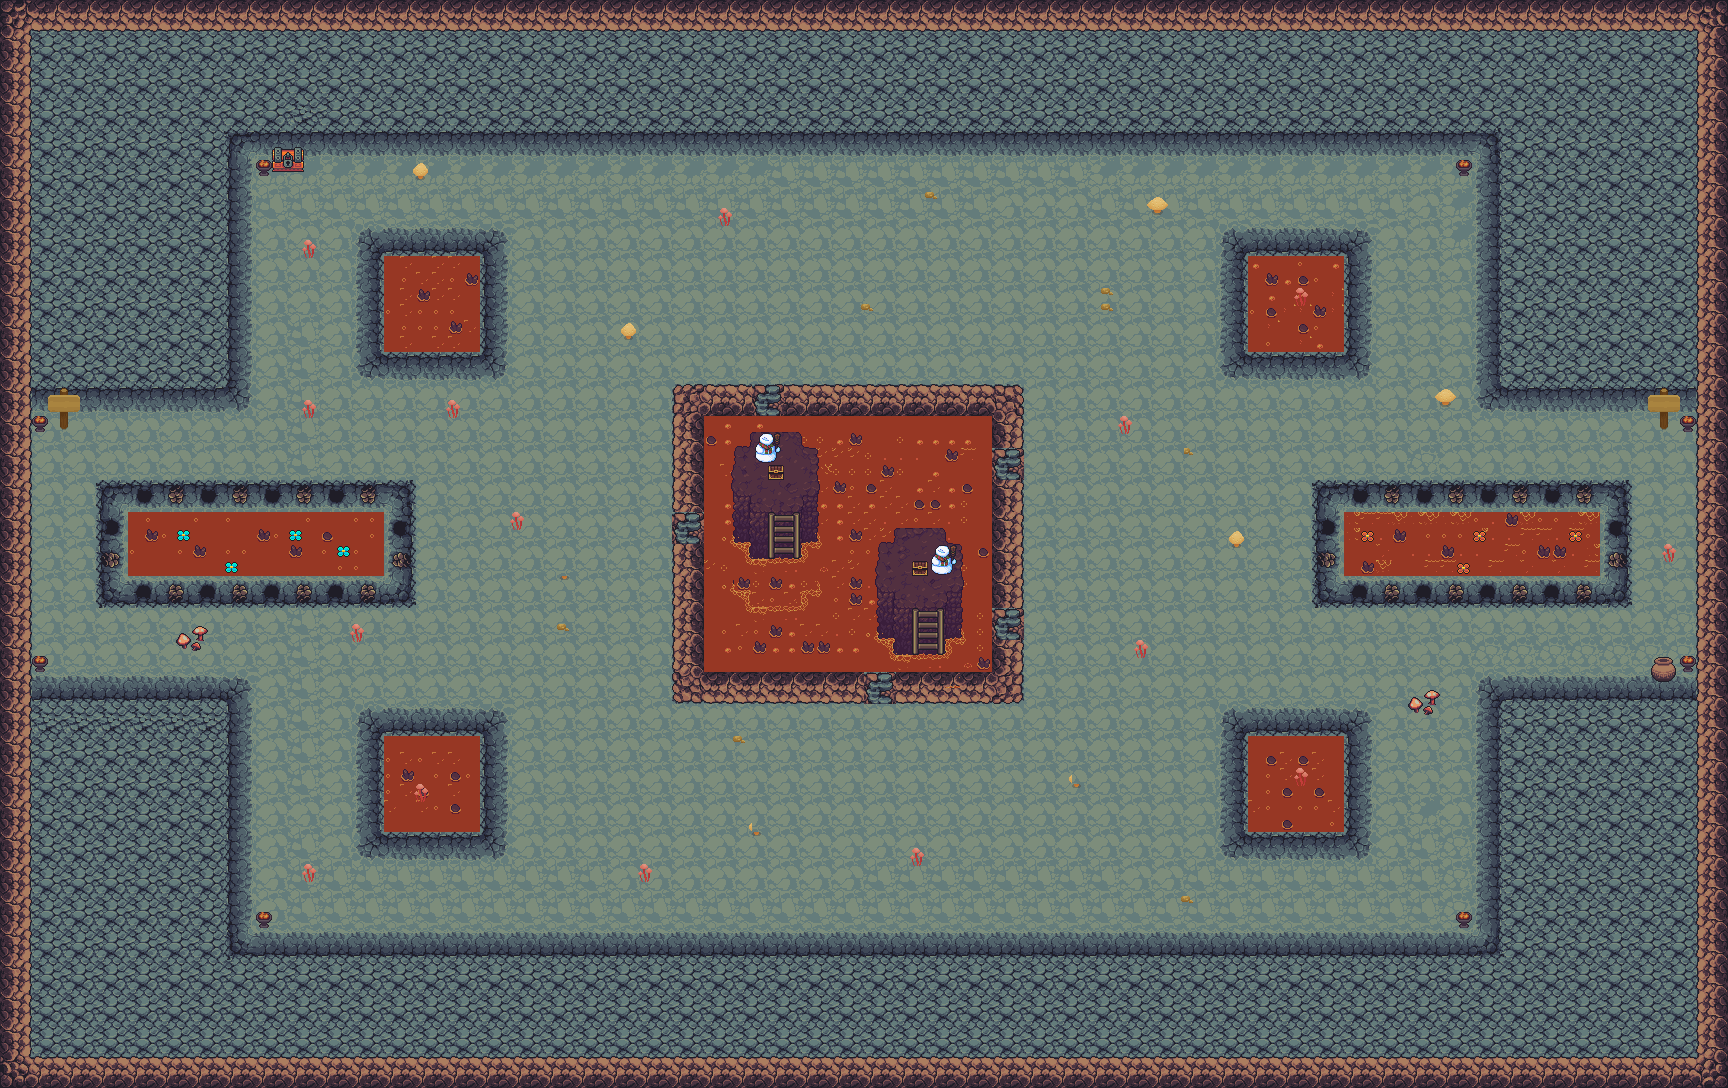
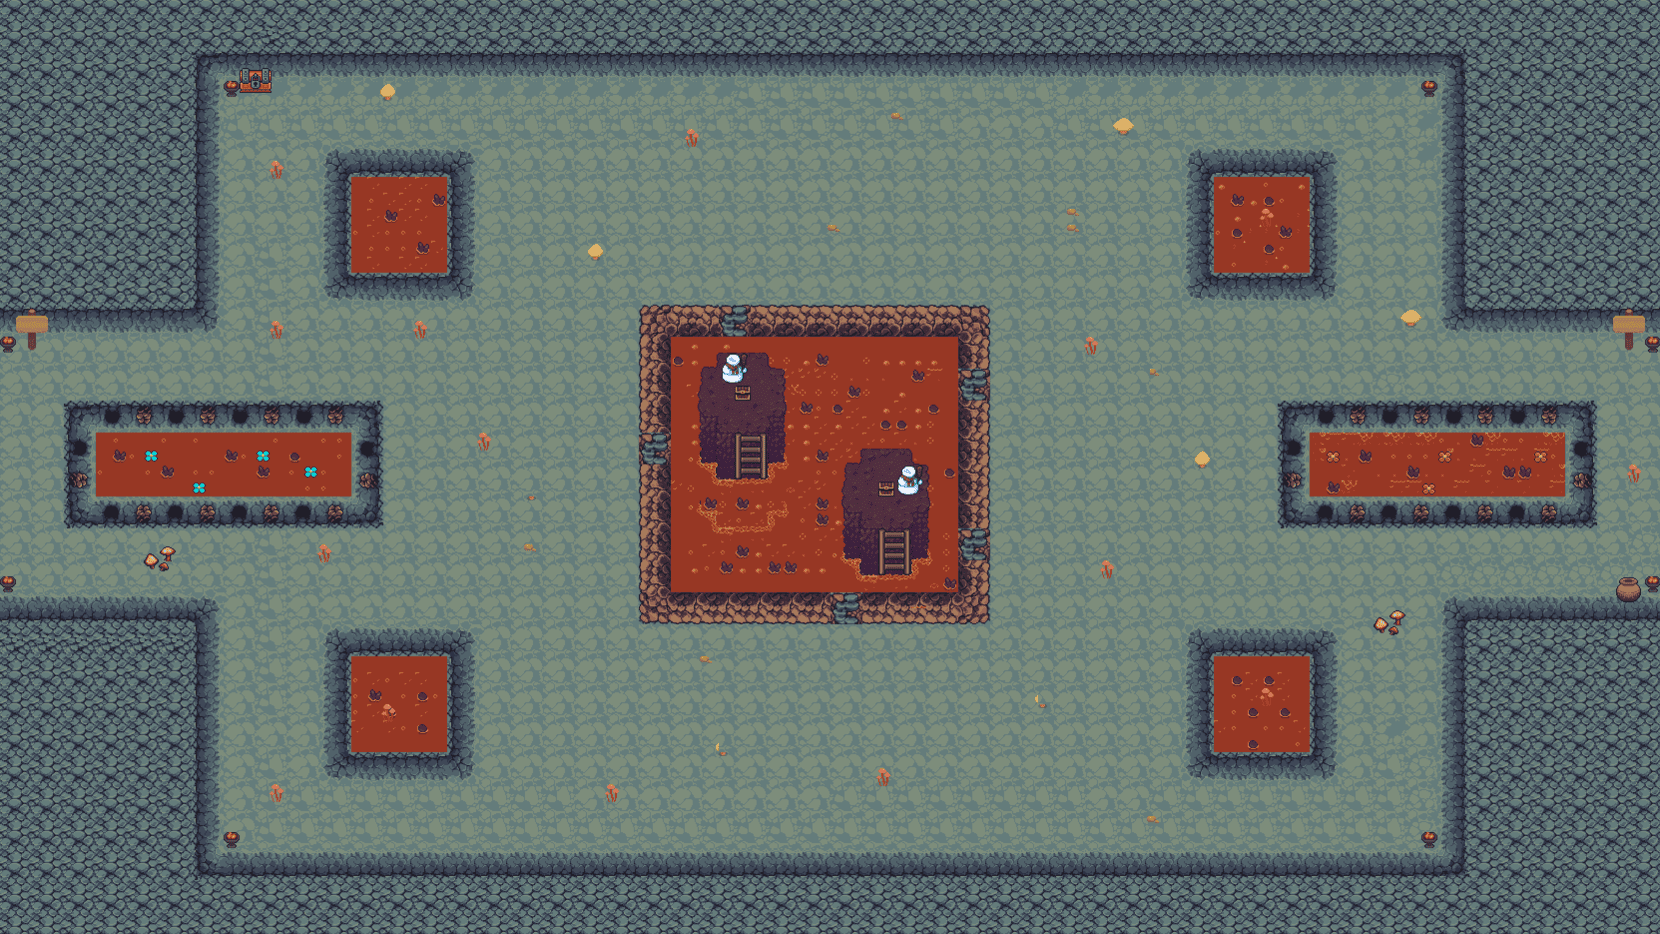
MAP2 AGAIN

diff --git a/Scripts/game_logic.py b/Scripts/game_logic.py
@@ -189,12 +189,12 @@ class GameLogic:
             event (pygame.event.Event): Pygame event
         """
         if event.type == pygame.USEREVENT:
-            self.player1.speed = 5
-            self.player2.speed = 5
+            self.player1.speed = 7
+            self.player2.speed = 7
         
         if event.type in [pygame.USEREVENT + i for i in range(1, 6)]:
-            self.player1.speed = 5
-            self.player2.speed = 5
+            self.player1.speed = 7
+            self.player2.speed = 7
             self.player1.controls_reversed = False
             self.player2.controls_reversed = False
 

diff --git a/Scripts/player.py b/Scripts/player.py
@@ -2,7 +2,7 @@ import pygame
 from state import State
 
 class Player(State):
-    def __init__(self, x, y, path, size=30, speed=5):
+    def __init__(self, x, y, path, size=30, speed=7):
         super().__init__(x, y, path, size, is_collidable=True)
         self.speed = speed
         self.path = path
